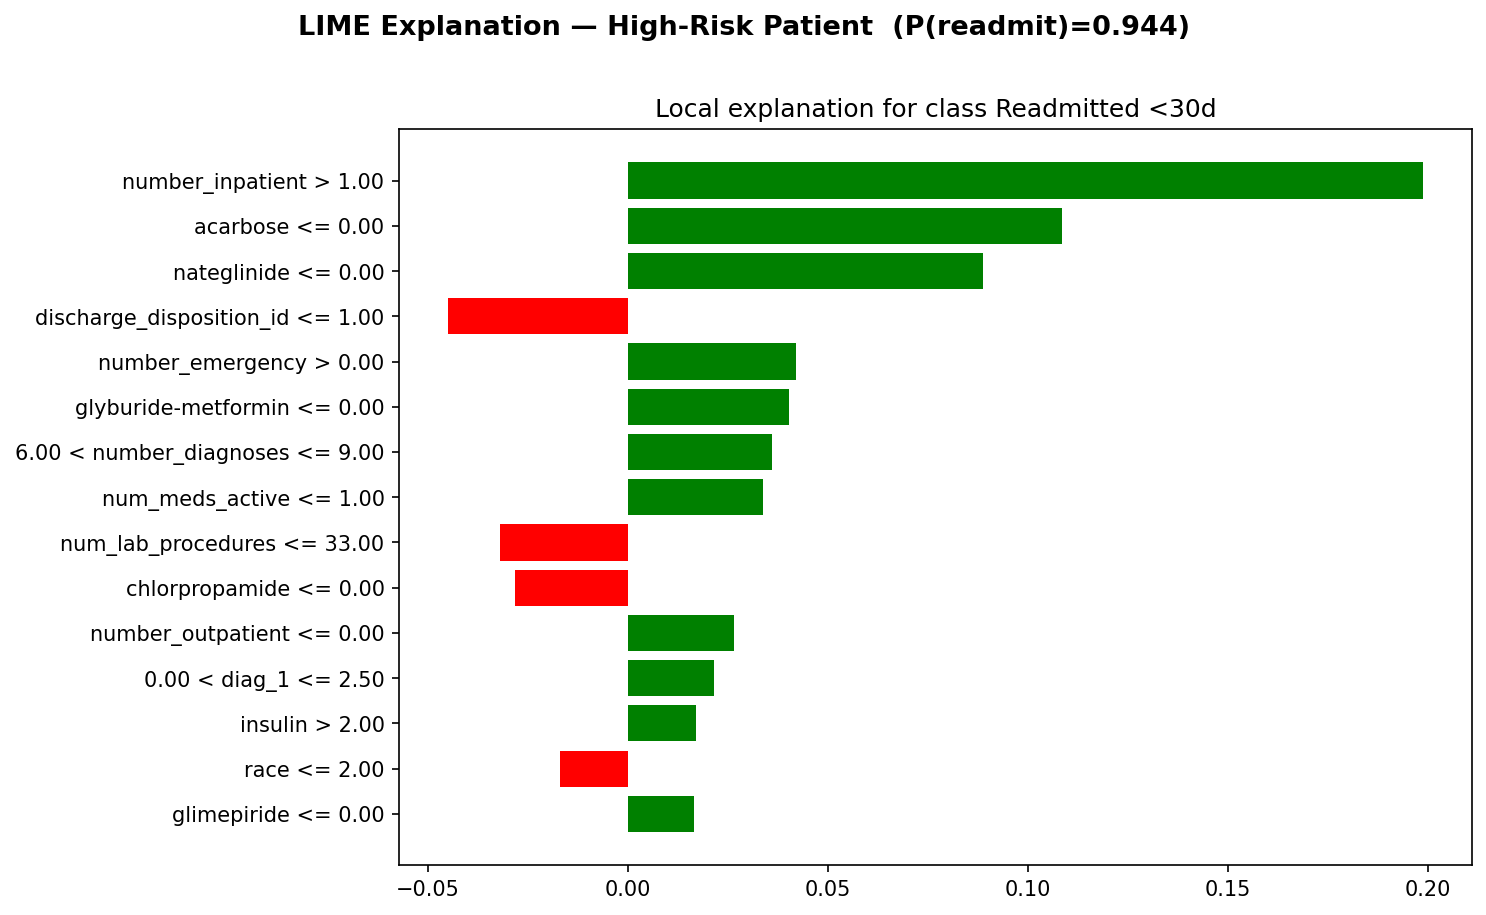
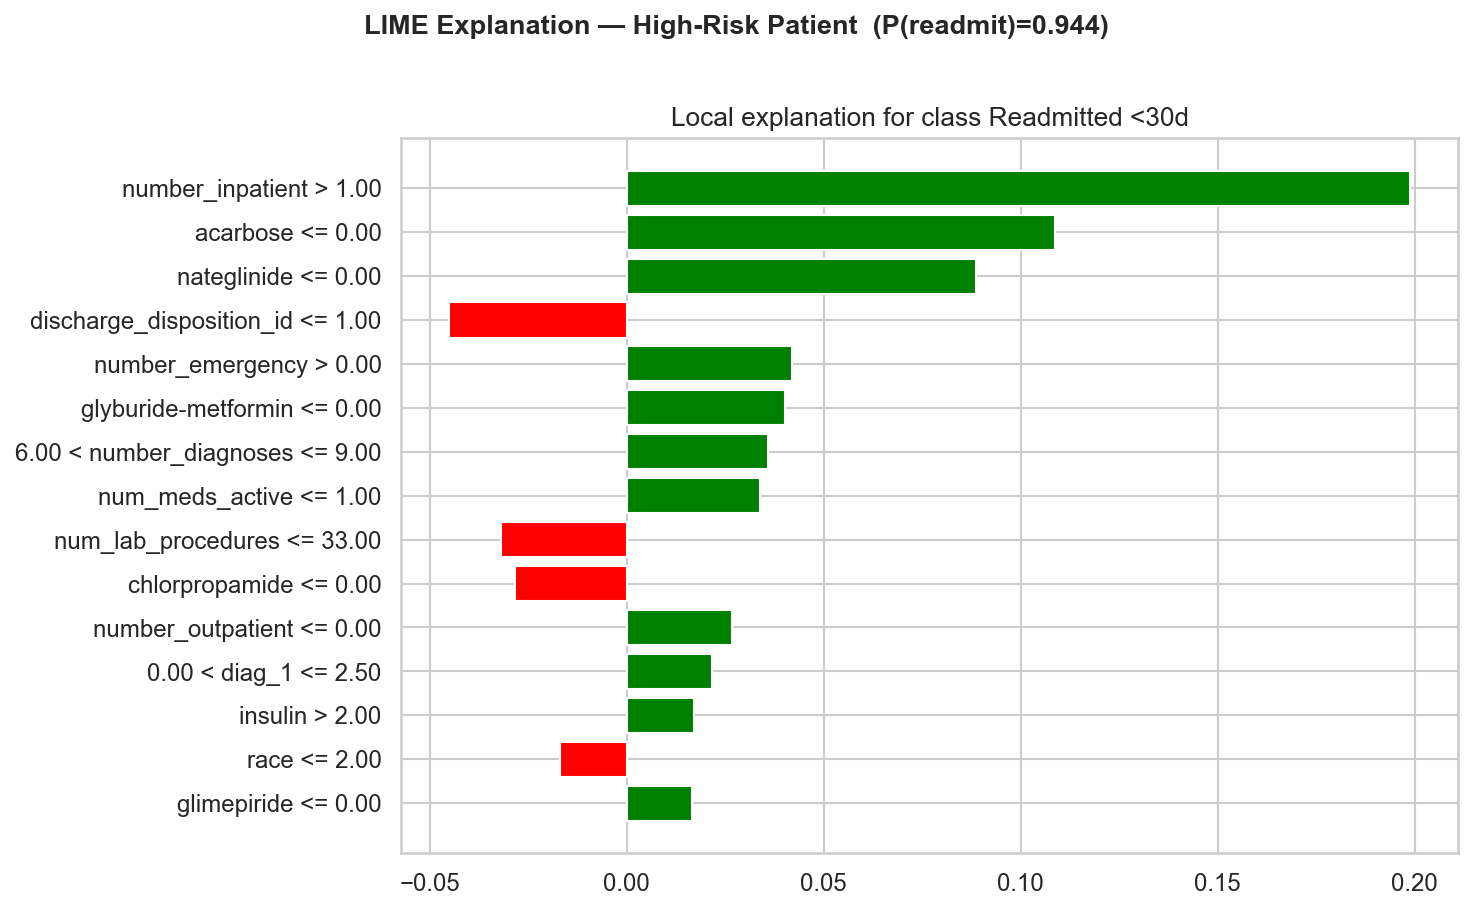
docs: update README pipeline architecture + refresh all generated figures

diff --git a/README.md b/README.md
@@ -10,6 +10,33 @@ A production-scale, end-to-end machine learning pipeline that predicts 30-day ho
 - **Explainability** — SHAP (global + local) + LIME (patient-level)
 - **Clinical Report** — Auto-generated PDF with confusion matrix, SHAP plots, recommendations
 
+
+## 🚀 Run Full Pipeline
+
+```bash
+# Install dependencies
+pip3 install -r requirements.txt --break-system-packages
+
+# Run complete pipeline (downloads data, trains model, generates report)
+python3 main.py
+
+# Run test suite
+pytest tests/ -v
+```
+
+## 🗺 Pipeline Architecture
+
+```
+main.py
+  ├── [1] src/ingestion/load_data.py   → UCI download + SQLite profiling
+  ├── [2] src/ingestion/eda.py         → 8 EDA figures
+  ├── [3] src/features/engineer.py     → Feature engineering + splits
+  ├── [4] src/modeling/train.py        → XGBoost + hypothesis tests
+  ├── [5] src/explainability/explain.py→ SHAP + LIME
+  └── [6] src/reporting/report.py      → Clinical PDF report
+```
+
+
 ## 🗂 Project Structure
 ```
 patient-readmission-risk/
